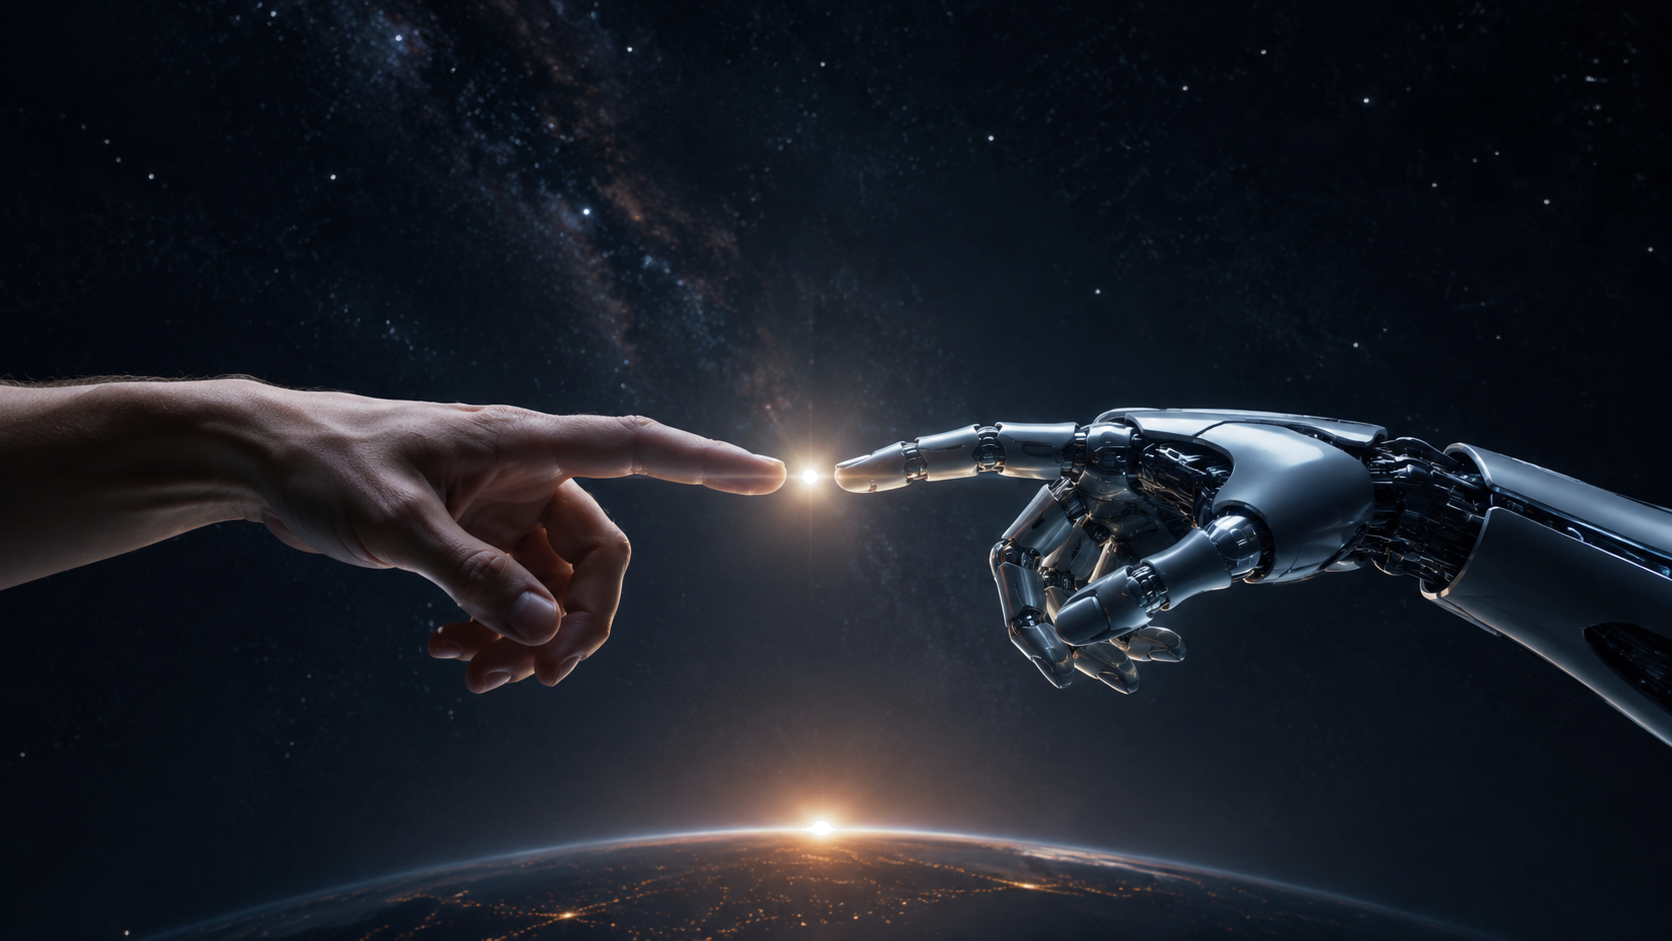
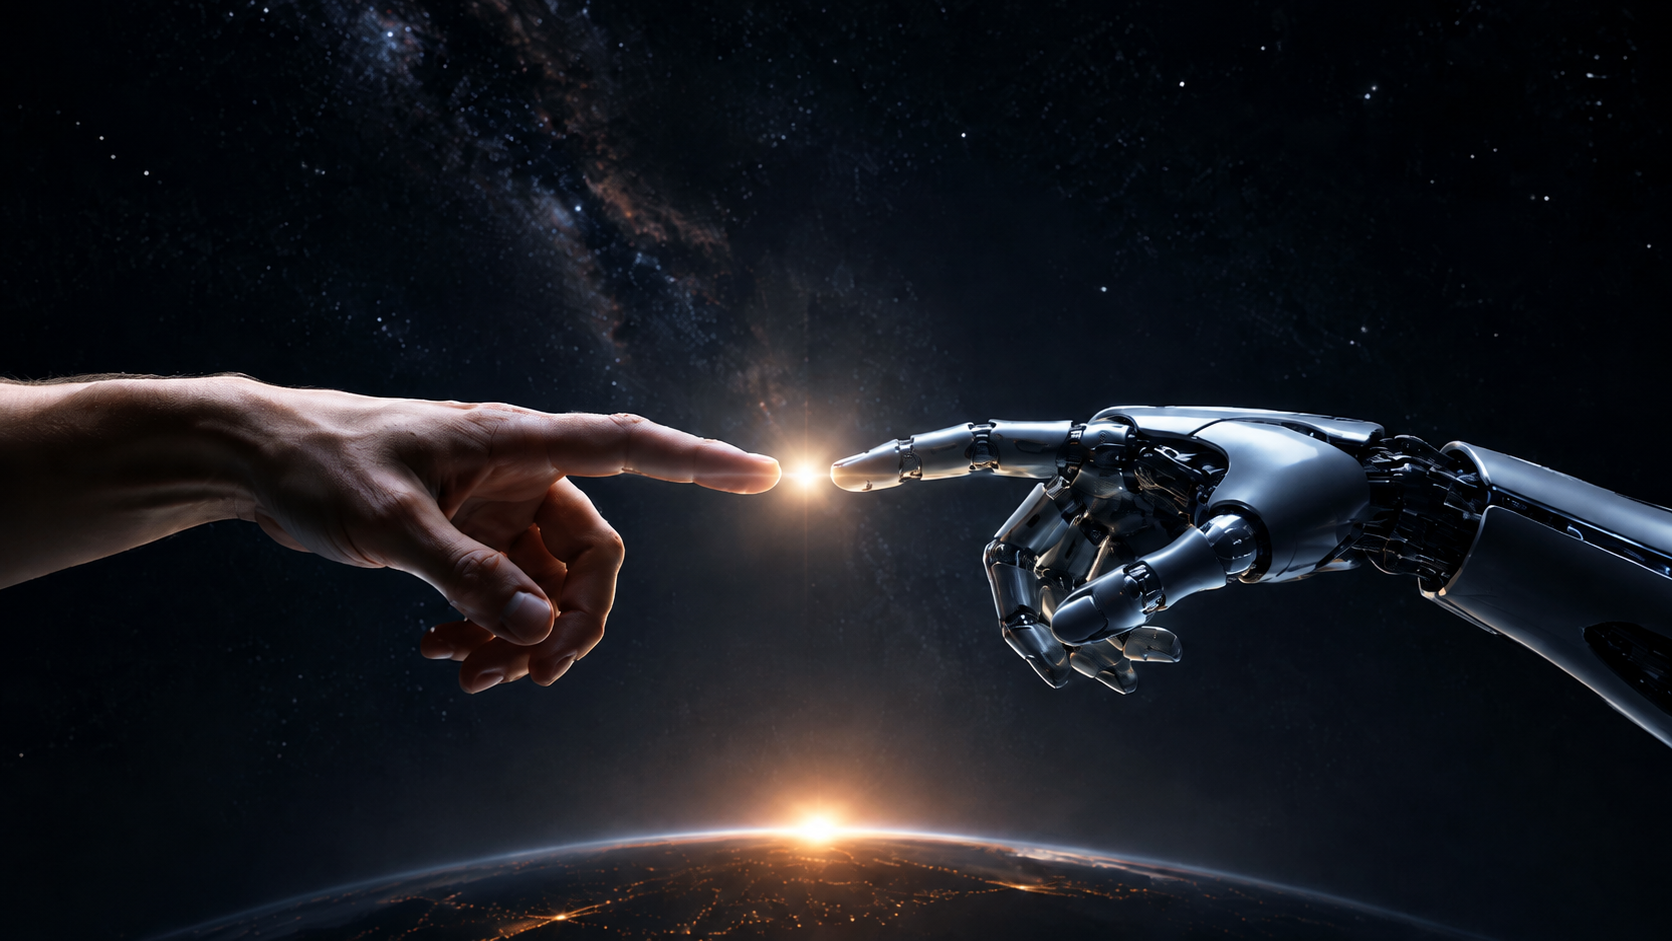
fix: remove transition area and upload new background.

diff --git a/components/sections/HeroSection.tsx b/components/sections/HeroSection.tsx
@@ -26,19 +26,12 @@ function HeroBackdrop() {
       <img
         src="/images/creation_of_robot.png"
         alt=""
-        className="hidden h-full w-full object-contain object-center opacity-85 mix-blend-normal dark:block"
+        className="hidden h-full w-full object-contain object-center opacity-90 mix-blend-normal dark:block"
       />
-      <div className="absolute inset-0 bg-gradient-to-r from-white/98 via-white/80 to-white/30 dark:from-slate-950 dark:via-slate-950/55 dark:to-slate-950/15" />
+      <div className="absolute inset-0 bg-gradient-to-r from-white/98 via-white/80 to-white/30 dark:from-slate-950/60 dark:via-slate-950/30 dark:to-transparent" />
       <div className="absolute inset-0 bg-[radial-gradient(circle_at_22%_20%,rgba(14,165,233,0.18),transparent_28%),radial-gradient(circle_at_74%_62%,rgba(34,197,94,0.10),transparent_24%)] dark:hidden" />
       <div className="absolute inset-0 hidden bg-[radial-gradient(circle_at_74%_20%,rgba(236,72,153,0.2),transparent_26%),radial-gradient(circle_at_58%_62%,rgba(6,182,212,0.22),transparent_32%)] dark:block" />
-      <div className="punk-effects" aria-hidden="true">
-        <div className="punk-scan punk-scan-a" />
-        <div className="punk-scan punk-scan-b" />
-        <div className="punk-word punk-word-a">RTDL</div>
-        <div className="punk-word punk-word-b">VLA</div>
-        <div className="punk-word punk-word-c">SOMA</div>
-      </div>
-      <div className="absolute inset-x-0 bottom-0 h-[340px] bg-gradient-to-b from-transparent via-white/80 to-[#f6f8fa] dark:via-[#07111f]/72 dark:to-[#020617]" />
+      <div className="absolute inset-x-0 bottom-0 h-[340px] bg-gradient-to-b from-transparent via-white/80 to-[#f6f8fa] dark:from-transparent dark:via-[#020617]/50 dark:to-[#020617]" />
     </div>
   );
 }
